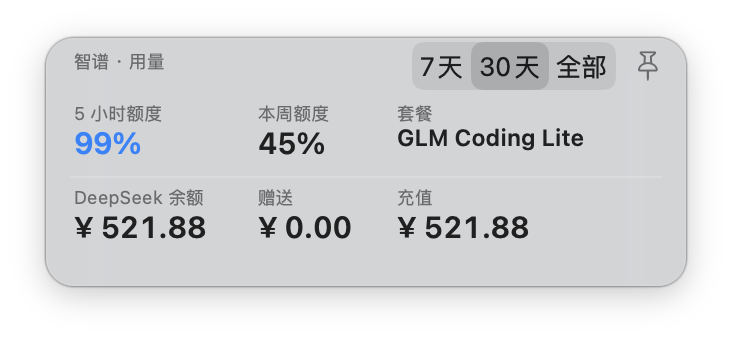
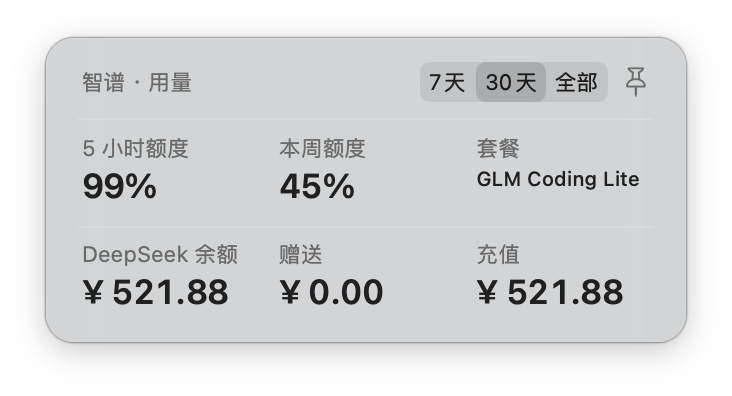
refactor(panel): rebuild dashboard on the 8pt grid and HIG type scale (11/17, equal columns, system hairlines)

diff --git a/apps/macos/DeepSeekUsagePanel.swift b/apps/macos/DeepSeekUsagePanel.swift
@@ -930,7 +930,7 @@ final class FloatingPanel: NSPanel {
             let singleRow = cardCount <= 3 && !side
             let chart = hasChart && SharedStore.historyProvider() != SharedStore.providerZhipu
             // 必须与 dashboardHeight() 保持一致，否则首启窗口会多出一截空白
-            h = chart ? (singleRow ? 208 : 250) : (singleRow ? 118 : 124)
+            h = chart ? (singleRow ? 204 : 264) : (singleRow ? 100 : 152)
         }
         let w: CGFloat = mode == 2 ? 320 : (mode == 0 ? 300 : 320)
         super.init(contentRect: NSRect(x: 0, y: 0, width: w, height: h),
@@ -981,8 +981,8 @@ final class FloatingPanel: NSPanel {
     private func dashboardHeight() -> CGFloat {
         let twoRows = dashboardRows() == 2
         let chart = showChart && SharedStore.historyProvider() != SharedStore.providerZhipu
-        if chart { return twoRows ? 250 : 208 }
-        return twoRows ? 124 : 118
+        if chart { return twoRows ? 264 : 204 }
+        return twoRows ? 152 : 100
     }
 
     /// 置顶小开关（面板右上角）
@@ -1065,39 +1065,58 @@ final class FloatingPanel: NSPanel {
         effect.layer?.masksToBounds = true
         content.addSubview(effect)
 
-        // 标题 + 时间范围（分段控件）+ 置顶开关——坐标随卡片行数/曲线开关自适应（紧凑版）
-        // 曲线跟随有余额历史的账号（并列时即副账号的 DeepSeek）
-        let hasChart = showChart && SharedStore.historyProvider() != SharedStore.providerZhipu
+        // 采用 macOS HIG 的 8pt 网格与字号阶梯：
+        //   外边距 16 / 组间距 8 / 行内标签-数值 3
+        //   caption 11（标签）· title 17 semibold（数值）· 等宽三列
+        // 卡片区固定 152pt 贴顶，曲线叠在下方，两种形态共用同一套纵向偏移。
+        let H = content.bounds.height
+        let W = content.bounds.width
+        let pad: CGFloat = 16
         let twoRows = dashboardRows() == 2
-        let titleY: CGFloat = hasChart ? (twoRows ? 220 : 180) : (twoRows ? 106 : 92)
-        let segY: CGFloat = hasChart ? (twoRows ? 216 : 176) : (twoRows ? 100 : 88)
-        let row1LabelY: CGFloat = hasChart ? (twoRows ? 184 : 150) : (twoRows ? 80 : 48)
-        let row1ValY: CGFloat = hasChart ? (twoRows ? 166 : 132) : (twoRows ? 64 : 26)
-        let row2LabelY: CGFloat = hasChart ? 136 : 38
-        let row2ValY: CGFloat = hasChart ? 118 : 22
+        let hasChart = showChart && SharedStore.historyProvider() != SharedStore.providerZhipu
+
+        let captionFont = NSFont.systemFont(ofSize: 11)
+        let valueFont = NSFont.monospacedDigitSystemFont(ofSize: 17, weight: .semibold)
+        let planFont = NSFont.systemFont(ofSize: 10, weight: .medium)
+
+        let titleY = H - 29
+        let segY: CGFloat = H - 31
+        let hair1Y = H - 41
+        let r1LabY = H - 62
+        let r1ValY = H - 85
+        let hair2Y = H - 95
+        let r2LabY = H - 115
+        let r2ValY = H - 138
+
+        let segW: CGFloat = 92
+        let pinS: CGFloat = 18
 
         titleLabel = DragLabel(labelWithString: panelTitleText())
-        titleLabel.font = .systemFont(ofSize: 9)
+        titleLabel.font = captionFont
         titleLabel.textColor = .secondaryLabelColor
-        titleLabel.frame = NSRect(x: 12, y: titleY, width: 150, height: 12)
+        titleLabel.frame = NSRect(x: pad, y: titleY, width: W - pad * 2 - segW - pinS - 14, height: 14)
         content.addSubview(titleLabel)
 
         let seg = NSSegmentedControl(labels: [L.t("7天"), L.t("30天"), L.t("全部")], trackingMode: .selectOne,
                                      target: self, action: #selector(dashRangeChanged))
-        seg.selectedSegment = dashRange == 30 ? 1 : (dashRange == 0 ? 2 : 0)
         seg.segmentStyle = .rounded
+        seg.controlSize = .small
+        seg.font = captionFont
+        seg.selectedSegment = dashRange == 30 ? 1 : (dashRange == 0 ? 2 : 0)
         if #available(macOS 11.0, *) { seg.selectedSegmentBezelColor = accentColor }
-        seg.frame = NSRect(x: 184, y: segY, width: 100, height: 20)
+        seg.frame = NSRect(x: W - pad - pinS - 6 - segW, y: segY, width: segW, height: 18)
         content.addSubview(seg)
         rangeControl = seg
 
-        // 置顶小开关（右上角）
         pinButton = makePinButton()
-        pinButton.frame = NSRect(x: 292, y: segY + 1, width: 18, height: 18)
+        pinButton.frame = NSRect(x: W - pad - pinS, y: segY, width: pinS, height: pinS)
         content.addSubview(pinButton)
         updatePinIcon()
 
-        // 卡片（按用户勾选显示；最多 6 张，3 列）
+        // 标题与内容之间一条系统分隔线
+        dividerLine(x: pad, y: hair1Y, width: W - pad * 2, content: content)
+
+        // 卡片（按用户勾选显示；最多 6 张，两行各三列，等宽对齐）
         let allSpecs: [(Int, String)] = [
             (0, "当前余额"), (1, "今日消耗"), (2, "累计消耗"),
             (3, "累计充值"), (4, "记录天数"), (5, "区间最高")
@@ -1105,7 +1124,6 @@ final class FloatingPanel: NSPanel {
         let isZhipu = SharedStore.currentProvider() == SharedStore.providerZhipu
         var specs: [(Int, String)]
         if isZhipu {
-            // 智谱没有"今日/累计消耗/充值/预估可用"的口径，用套餐信息占位，卡片数量不变
             specs = allSpecs.filter { dashCards.contains($0.0) }.map { spec -> (Int, String) in
                 switch spec.0 {
                 case 0: return (0, "5 小时额度")
@@ -1118,66 +1136,75 @@ final class FloatingPanel: NSPanel {
         } else {
             specs = allSpecs.filter { dashCards.contains($0.0) }
         }
-        // 并列：主账号三卡在上面一行，副账号三卡在下面一行
         let subSpecs = secondaryCardSpecs()
         let mainCount = specs.count
         if !subSpecs.isEmpty { specs += subSpecs }
+
         let cols = min(3, max(1, mainCount))
-        let cardW: CGFloat = (content.bounds.width - 24 - CGFloat(cols - 1) * 8) / CGFloat(cols)
-        // 三卡时按内容分配列宽：智谱给"套餐"列更多空间，DeepSeek 三等分；
-        // 并列的第二行复用同一套列宽，保证两行左边缘严格对齐
-        var customXs: [CGFloat] = [], customWs: [CGFloat] = []
-        if mainCount == 3 {
-            let total = content.bounds.width - 24 - 2 * 8
-            let ratios: [CGFloat] = isZhipu ? [0.30, 0.22, 0.48] : [0.33, 0.33, 0.34]
-            let w0 = total * ratios[0], w1 = total * ratios[1]
-            let w2 = total - w0 - w1
-            customXs = [12, 12 + w0 + 8, 12 + w0 + 8 + w1 + 8]
-            customWs = [w0, w1, w2]
+        let gap: CGFloat = 8
+        let usable = W - pad * 2 - CGFloat(cols - 1) * gap
+        // 三列按 32/22/46 分配：套餐名最长需要横向空间，两行共用同一套列宽，左边缘依旧严格对齐
+        let ratios: [CGFloat] = Array(repeating: 1.0 / CGFloat(cols), count: cols)
+        var colXs: [CGFloat] = [], colWs: [CGFloat] = []
+        var cursor = pad
+        for c in 0..<cols {
+            let w = usable * ratios[c]
+            colXs.append(cursor); colWs.append(w)
+            cursor += w + gap
         }
+
         for (i, spec) in specs.enumerated() {
             let col = i % cols, row = i / cols
-            // 主卡行按内容宽度分配；并列的副卡行（第二行）沿用同一套列宽以对齐
-            let useCustom = !customXs.isEmpty && (row == 0 || sideBySide)
-            let x = useCustom ? customXs[col] : 12 + CGFloat(col) * (cardW + 8)
-            let w = useCustom ? customWs[col] : cardW
-            let labelY: CGFloat = row == 0 ? row1LabelY : row2LabelY
-            let valY: CGFloat = row == 0 ? row1ValY : row2ValY
+            let x = colXs[col]
+            let colW = colWs[col]
+            let labelY: CGFloat = row == 0 ? r1LabY : r2LabY
+            let valY: CGFloat = row == 0 ? r1ValY : r2ValY
             let label = DragLabel(labelWithString: L.t(spec.1))
-            label.font = .systemFont(ofSize: 9)
+            label.font = captionFont
             label.textColor = .secondaryLabelColor
-            label.frame = NSRect(x: x, y: labelY, width: w, height: 12)
+            label.frame = NSRect(x: x, y: labelY, width: colW, height: 14)
             content.addSubview(label)
             let val = DragLabel(labelWithString: "—")
-            let isText = spec.1 == "套餐" || spec.1.hasSuffix("套餐")   // 套餐名是文字，字号略小以免被截断
-            val.font = isText ? .systemFont(ofSize: 11.5, weight: .semibold)
-                              : .monospacedDigitSystemFont(ofSize: 15, weight: .semibold)
+            val.font = spec.1.hasSuffix("套餐") ? planFont : valueFont
             val.textColor = spec.1 == "当前余额" ? accentColor : .labelColor
             val.lineBreakMode = .byTruncatingTail
-            val.frame = NSRect(x: x, y: valY, width: w, height: 17)
+            val.frame = NSRect(x: x, y: valY, width: colW, height: 21)
             content.addSubview(val)
             dashboardValues[spec.1] = val
         }
 
-        // 两行之间一条淡分隔线：让"主账号 / 副账号"成为两个清晰的块
+        // 主账号 / 副账号之间的分隔（两行时才有）
         if twoRows && sideBySide {
-            let rowDivider = DragView()
-            rowDivider.wantsLayer = true
-            rowDivider.layer?.backgroundColor = NSColor.labelColor.withAlphaComponent(0.16).cgColor
-            let divY: CGFloat = hasChart ? 110 : 54
-            rowDivider.frame = NSRect(x: 12, y: divY, width: content.bounds.width - 24, height: 1)
-            content.addSubview(rowDivider)
+            dividerLine(x: pad, y: hair2Y, width: W - pad * 2, content: content)
         }
 
         // 迷你余额曲线（可隐藏）
         if hasChart {
-            let chartH: CGFloat = twoRows ? 100 : 112
-            let chart = MiniChartView(frame: NSRect(x: 12, y: 8, width: content.bounds.width - 24, height: chartH))
+            let chart = MiniChartView(frame: NSRect(x: pad, y: 8, width: W - pad * 2, height: 100))
             chart.autoresizingMask = [.width]
             chart.lineColor = accentColor
             content.addSubview(chart)
             chartView = chart
         }
+    }
+
+    /// 文本按列宽自适应字号（Apple 的 minimumScaleFactor 等价做法）：套餐名这类长文本不截断
+    private func fitFont(_ label: DragLabel, maxWidth: CGFloat, base: CGFloat, min minimum: CGFloat) {
+        var size = base
+        while size > minimum {
+            let w = (label.stringValue as NSString).size(withAttributes: [.font: NSFont.systemFont(ofSize: size, weight: .medium)]).width
+            if w <= maxWidth { break }
+            size -= 0.5
+        }
+        label.font = .systemFont(ofSize: size, weight: .medium)
+    }
+
+    private func dividerLine(x: CGFloat, y: CGFloat, width: CGFloat, content: NSView) {
+        let line = DragView()
+        line.wantsLayer = true
+        line.layer?.backgroundColor = NSColor.labelColor.withAlphaComponent(0.14).cgColor
+        line.frame = NSRect(x: x, y: y, width: width, height: 1)
+        content.addSubview(line)
     }
 
     @objc private func dashRangeChanged() {
@@ -1242,7 +1269,8 @@ final class FloatingPanel: NSPanel {
             dashboardValues["5 小时额度"]?.stringValue = rem5.map { String($0) + "%" } ?? "—"
             dashboardValues["本周额度"]?.stringValue = remW.map { String($0) + "%" } ?? "—"
             dashboardValues["套餐"]?.stringValue = plan.isEmpty ? L.t("无套餐") : plan
-            if let r = rem5 { dashboardValues["5 小时额度"]?.textColor = r == 0 ? .systemRed : (r < 10 ? .systemOrange : accentColor) }
+            if let v = dashboardValues["套餐"] { fitFont(v, maxWidth: v.frame.width, base: 10, min: 8.5) }
+            if let r = rem5 { dashboardValues["5 小时额度"]?.textColor = r == 0 ? .systemRed : (r < 10 ? .systemOrange : .labelColor) }
             if let r = remW { dashboardValues["本周额度"]?.textColor = r == 0 ? .systemRed : (r < 10 ? .systemOrange : .labelColor) }
         }
 
@@ -1261,6 +1289,7 @@ final class FloatingPanel: NSPanel {
                 dashboardValues["智谱 本周"]?.stringValue = remW.map { String($0) + "%" } ?? "—"
                 let plan = sb?["plan"] as? String ?? ""
                 dashboardValues["智谱 套餐"]?.stringValue = plan.isEmpty ? L.t("无套餐") : plan
+                if let v = dashboardValues["智谱 套餐"] { fitFont(v, maxWidth: v.frame.width, base: 10, min: 8.5) }
                 if let r = rem5 { dashboardValues["智谱 5h"]?.textColor = r == 0 ? .systemRed : (r < 10 ? .systemOrange : .labelColor) }
                 if let r = remW { dashboardValues["智谱 本周"]?.textColor = r == 0 ? .systemRed : (r < 10 ? .systemOrange : .labelColor) }
             } else {
